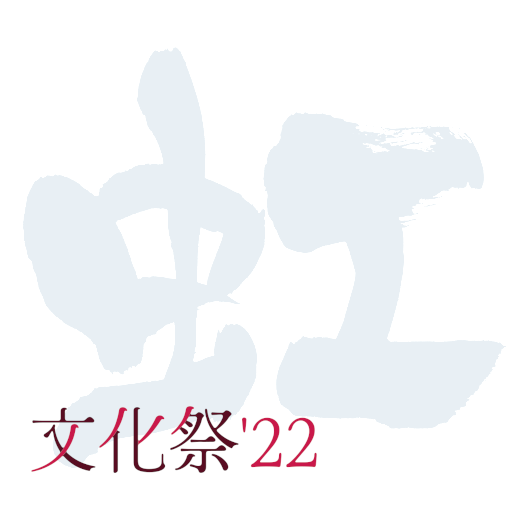
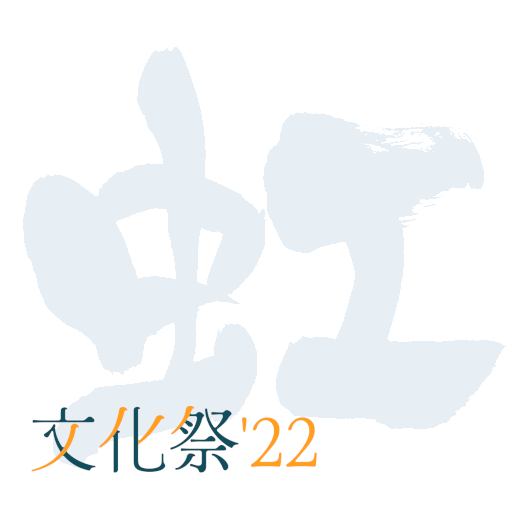
added maps and setted up ogp

diff --git a/styles/globals.scss b/styles/globals.scss
@@ -23,7 +23,7 @@ body {
   }
   &::after {
     bottom: 0;
-    background-color: var(--color-10);
+    background-color: var(--color-E);
   }
 }
 i {
@@ -36,16 +36,16 @@ a {
 //defaults and variables
 * {
   box-sizing: border-box;
-  --color-10: #590d22;
+  --color-10: #104e5d;
   --color-9: #800f2f;
   --color-8: #a4133c;
-  --color-7: #c9184a;
+  --color-7: #ff9f1c;
   --color-6: #ff4d6d;
   --color-5: #ff758f;
   --color-4: #ff8fa3;
   --color-3: #ffb3c1;
   --color-2: #ffccd5;
-  --color-1: #fff0f3;
+  --color-1: #edede9;
   --color-1b: #edede9;
   --color-1c: #d6ccc2;
   --color-1d: #f5ebe0;
@@ -58,11 +58,14 @@ a {
   --color-B: #B0C4B1;
   --color-A: #4A5759;
    */
-    --color-E: #e29578;
-    --color-D: #ffddd2;
-    --color-C: #edf6f9;
-    --color-B: #83c5be;
-    --color-A: #006b77;
+  --color-H: #ffa767;
+  --color-G: #0797b2;
+  --color-F: #e26b3a;
+  --color-E: #ff9f1c;
+  --color-D: #ffc069;
+  --color-C: #ffffff;
+  --color-B: #cbf4f0;
+  --color-A: #2fc6b7;
 
   --color-fav: #c9184a;
   /* --color-10: #073B4C;
@@ -322,6 +325,7 @@ div.header {
         width: 100%;
         max-width: 480px;
         aspect-ratio: 1/1;
+        object-fit: cover;
       }
     }
     > div {
@@ -347,7 +351,7 @@ div.header {
           font-weight: 700;
           font-family: "Jost";
           font-size: 12px;
-          background: var(--color-10);
+          background: var(--color-F);
           color: white;
         }
         i.genre {
@@ -361,17 +365,19 @@ div.header {
           width: 30px;
           height: 30px;
           position: absolute;
+          --width: 4px;
+          --color: var(--color-G);
         }
         &::before {
-          border-left: solid 2px var(--color-7);
-          border-top: solid 2px var(--color-7);
+          border-left: solid var(--width) var(--color);
+          border-top: solid var(--width) var(--color);
           top: 0;
           left: 0;
         }
 
         &::after {
-          border-right: solid 2px var(--color-7);
-          border-bottom: solid 2px var(--color-7);
+          border-right: solid var(--width) var(--color);
+          border-bottom: solid var(--width) var(--color);
           bottom: 0;
           right: 0;
         }
@@ -403,9 +409,9 @@ div.header {
         padding: 32px 12px;
         min-width: 120px;
         max-width: 100%;
-        color: var(--color-10);
+        color: white;
         font-size: 16px;
-        background: var(--color-1);
+        background: var(--color-H);
         box-sizing: border-box;
         border-radius: 16px;
         &::before {
@@ -457,7 +463,7 @@ div.header {
     align-items: center;
     z-index: 90;
     span {
-      --line-color: var(--color-10);
+      --line-color: black;
       display: block;
       height: 2px;
       width: 20px;
@@ -546,7 +552,7 @@ div.header {
   z-index: 80;
   background-size: calc(200% + 64px);
   background-position-x: left;
-  background-image: linear-gradient(to right, var(--color-7) calc(50% + 72px), var(--color-1) calc(50% + 72px));
+  background-image: linear-gradient(to right, var(--color-B) calc(50% + 72px), var(--color-C) calc(50% + 72px));
   /* background:no-repeat center/100% url('/nagamine-shi.png') , no-repeat left/calc(200% + 64px) linear-gradient(to right, var(--color-7) calc(50% + 72px), var(--color-1) calc(50% + 72px)); */
   left: 100%;
   transition: all 0.5s;
@@ -554,25 +560,25 @@ div.header {
   > div {
     padding: 100px 16px 0 64px;
     ul.links {
-      padding: 8px 32px 8px 0;
+      padding: 8px 0 8px 32px;
       li {
-        border-bottom: solid 1px var(--color-8);
         list-style: none;
         a {
           display: block;
           width: 100%;
           font-size: 1em;
           box-sizing: border-box;
-          color: var(--color-10);
+          color: black;
           text-decoration: none;
-          padding: 8px 15px 8px 0;
+          padding: 8px 32px 8px 0;
           position: relative;
+          text-align: end;
           &::before {
             content: "";
             width: 7px;
             height: 7px;
-            border-top: solid 2px var(--color-10);
-            border-right: solid 2px var(--color-10);
+            border-top: solid 2px black;
+            border-right: solid 2px black;
             transform: rotate(45deg);
             position: absolute;
             right: 11px;
@@ -592,7 +598,7 @@ div.header {
         flex: 1;
         li {
           list-style: none;
-          color: var(--color-10);
+          color: black;
           text-align: end;
           span.material-symbols-outlined {
             font-size: 1em;
@@ -644,10 +650,10 @@ footer {
   }
   > div:nth-of-type(1) {
     @media screen and (max-width: 479px) {
-      background: linear-gradient(to bottom, var(--color-1) 216px, var(--color-2) 216px);
+      background: linear-gradient(to bottom, var(--color-B) 216px, var(--color-C) 216px);
     }
     @media screen and (min-width: 480px) {
-      background: linear-gradient(to bottom, var(--color-1) 64px, var(--color-2) 64px);
+      background: linear-gradient(to bottom, var(--color-B) 64px, var(--color-C) 64px);
     }
     padding: 72px 12px 12px;
     > main {
@@ -691,18 +697,18 @@ footer {
     }
   }
   > div:nth-of-type(2) {
-    background: var(--color-3);
+    background: var(--color-D);
     padding: 0 12px;
     > main > i {
       display: block;
       text-align: end;
       padding: 24px 0;
-      color: var(--color-9);
+      color: black;
       font-size: 0.8em;
     }
   }
   > div:nth-of-type(3) {
-    background: var(--color-10);
+    background: var(--color-E);
     padding: 0 12px;
     > main > i {
       display: block;
@@ -1212,20 +1218,19 @@ body[data-current-url="/programs/"] #__next > main {
   background-color: rgb(246 246 246);
 }
 
-
-.filters{
+.filters {
   text-align: end;
-  .material-symbols-outlined{
+  .material-symbols-outlined {
     transform: translateY(8px);
   }
-select{
-  border: none;
-  border-bottom: solid 2px black;
-  border-radius: 0;
-  background: transparent;
-  color: black;
-  font-size: 1rem;
-  margin:  8px;
-  padding: 6px;
-}
+  select {
+    border: none;
+    border-bottom: solid 2px black;
+    border-radius: 0;
+    background: transparent;
+    color: black;
+    font-size: 1rem;
+    margin: 8px;
+    padding: 6px;
+  }
 }

diff --git a/pages/_app.js b/pages/_app.js
@@ -17,6 +17,13 @@ function MyApp({ Component, pageProps }) {
       <link rel="stylesheet" href="https://fonts.googleapis.com/css2?family=Material+Symbols+Outlined:opsz,wght,FILL,GRAD@20..48,100..700,0..1,-50..200" />
       <meta name="robots" content="noindex"/>
       <title>本所祭22</title>
+      <head prefix="og:http://ogp.me/ns#"/>
+      <meta property="og:url" content="https://honjo.one/" />
+      <meta property="og:type" content="website" />
+      <meta property="og:title" content="本所祭22" />
+      <meta property="og:description" content="彩れ、青春の一ページ。 - 2022年度本所高校文化祭デジタルパンフレット" />
+      <meta property="og:site_name" content="本所祭22" />
+      <meta property="og:image" content="https://honjo.one/ogp.png" />
     </Head>
     <Component {...pageProps} />
   </>

diff --git a/pages/programs/[id].js b/pages/programs/[id].js
@@ -69,6 +69,9 @@ export default function Program() {
               <p className='shortDesc'>{program.shortDesc}</p>
               <p className='longDesc'>{program.longDesc}</p>
             </div>
+            <div className='infos'>
+              <img src={"/maps/" + program.ID + ".png"} />
+            </div>
           </div>
         </div>
 
